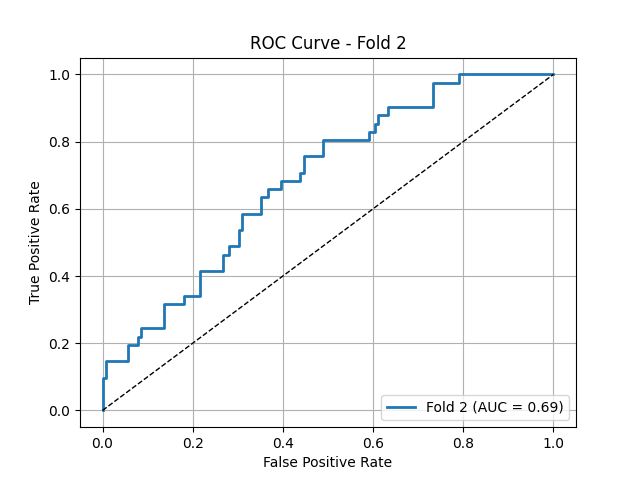
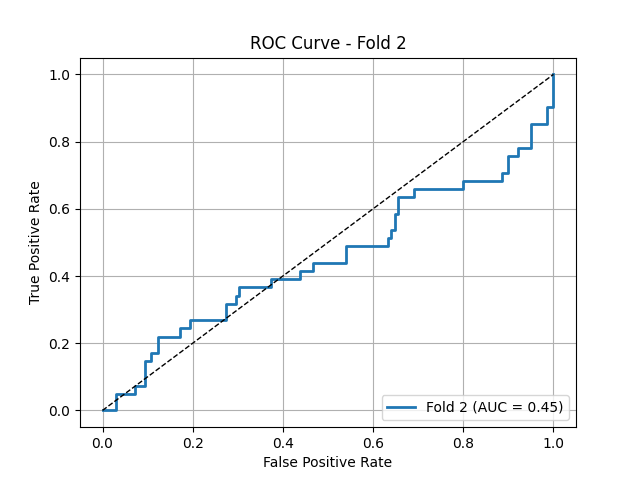
changed the combined weight and augmentation

diff --git a/dataset_washu2.py b/dataset_washu2.py
@@ -75,11 +75,21 @@ train_transform = A.Compose([
 						ratio=(0.95, 1.05),
 						size=(256, 256),
 						),
+
     A.HorizontalFlip(p=0.5),
     A.VerticalFlip(p=0.5),
     A.RandomRotate90(p=0.5),
+
+	A.ShiftScaleRotate(shift_limit=0.05, scale_limit=0.05, rotate_limit=10, border_mode=0, value=0, p=0.5), 
     A.ElasticTransform(p=0.5),
     A.GridDistortion(p=0.2),
+
+	#A.GaussNoise(var_limit=(0.2, 0.44), p=1),
+    A.RandomBrightnessContrast(brightness_limit=0.01, contrast_limit=0.01, p=1),
+    A.CLAHE(clip_limit=1., tile_grid_size=(8, 8), p=1),
+    #A.Downscale(scale_min=0.25, scale_max=0.25, p=0.5),
+	
+
     A.Normalize(mean=(0.5,), std=(0.5,)),  # Adjust if using RGB
     ToTensorV2()
 ])
@@ -229,7 +239,7 @@ class Classificaiton_Dataset(Dataset):
 	
 if __name__ == '__main__':
 	#Classificaiton_Dataset(phase = 'train', img_transform= transform_img)
-	train_dataset = Classificaiton_Dataset(phase = 'val', k_fold=10, fold= 2)
+	train_dataset = Classificaiton_Dataset(phase = 'train', k_fold=10, fold= 2)
 	print("train dataset size: ", len(train_dataset))
 	#print("test dataset size: ", len(train_dataset))
 	#print("data sample: ", train_dataset.data) 
@@ -240,17 +250,17 @@ if __name__ == '__main__':
 	# print(train_dataset[1][1].max())
 	# print(len(train_dataset))
 
-	# for i in range(5):
-	# 	if train_dataset.radiomics_dir: 
-	# 		img, radiomics, label = train_dataset[i]
-	# 	else: 
-	# 		img, label = train_dataset[i]
-	# 	#print("radiomics: ", radiomics.shape)
-	# 	print(label)
-	# 	plt.figure()
-	# 	#plt.subplot(1,3,1)
-	# 	plt.imshow(img[0], cmap= 'gray')
-	# 	plt.show()
+	for i in range(5):
+		if train_dataset.radiomics_dir: 
+			img, radiomics, label = train_dataset[i]
+		else: 
+			img, label = train_dataset[i]
+		#print("radiomics: ", radiomics.shape)
+		print(label)
+		plt.figure()
+		#plt.subplot(1,3,1)
+		plt.imshow(img[0], cmap= 'gray')
+		plt.show()
 
 
 	Malignant_count = 0 

diff --git a/models.py b/models.py
@@ -344,7 +344,7 @@ class BinaryClassification(pl.LightningModule):
         acc = self.accuracy_metric.compute()
         auc =  self.auc_metric.compute()
         w_acc =  self.compute_weighted_accuracy()
-        combined_score =  0.5 * w_acc + 0.25 * acc +  0.25 * auc 
+        combined_score =  0.2 * w_acc + 0.3 * acc +  0.5 * auc 
         self.log("validation/accuracy", acc, prog_bar=True)
         self.log("validation/auc", auc, prog_bar=True)
         self.log("validation/weighted_accuracy", w_acc, prog_bar=True)
